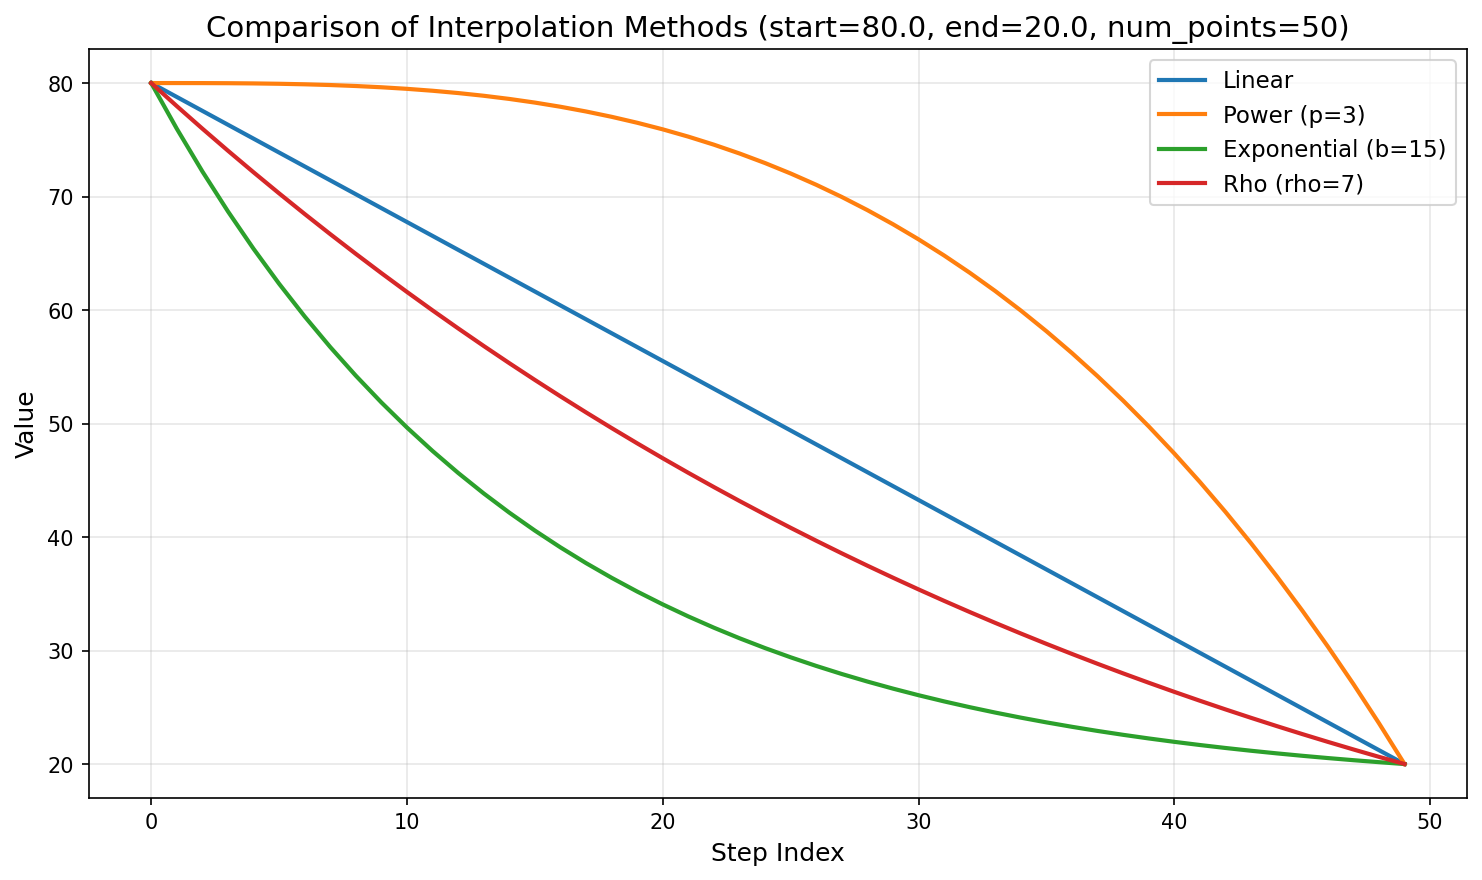
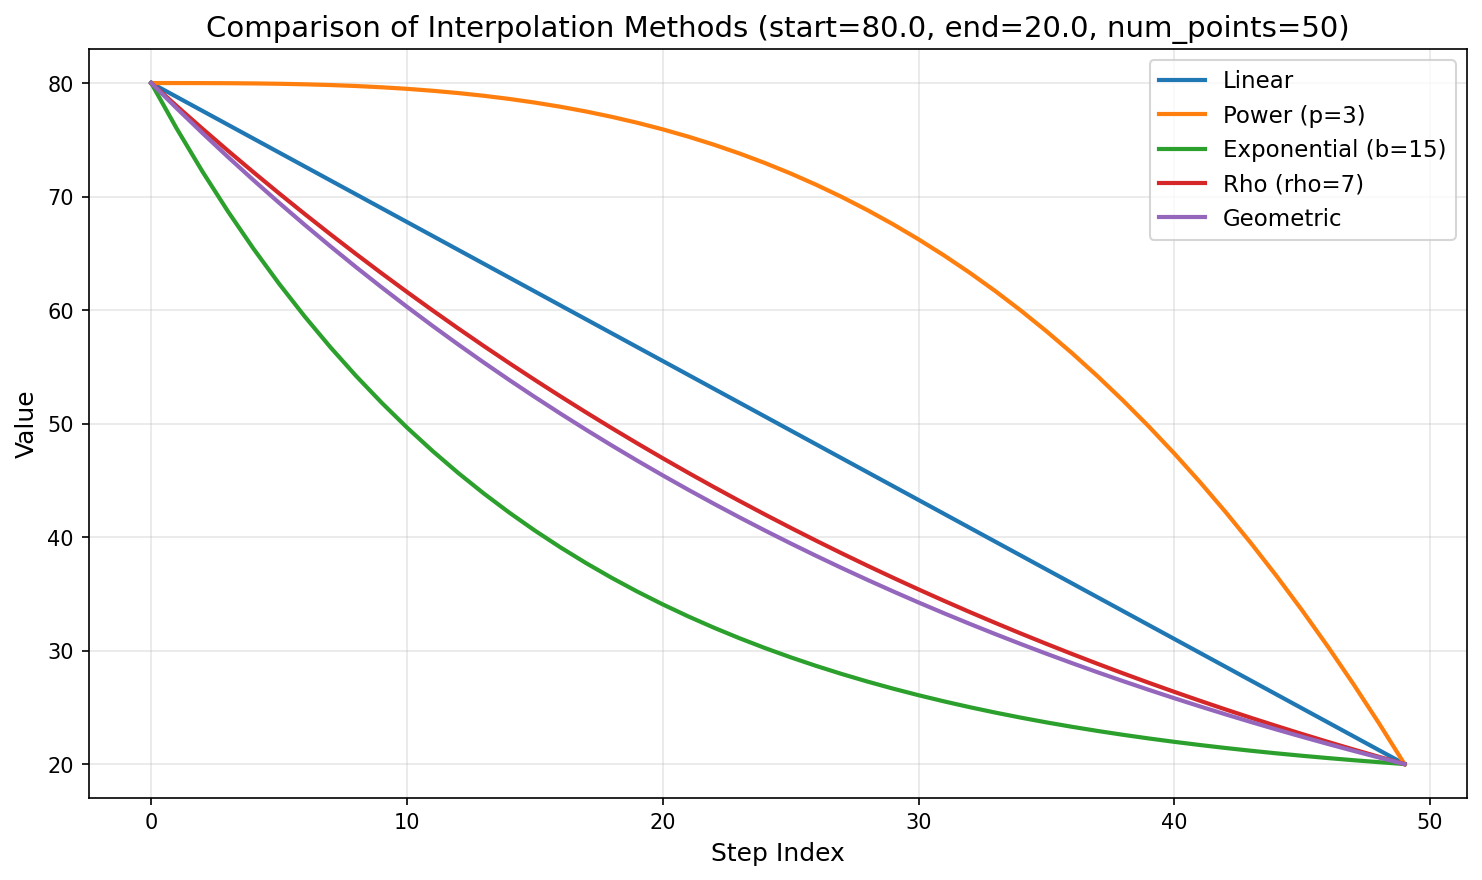
docs(README): add geometric interpolation image and resize all images
- Add geometric_interpolation.png to Geometric Interpolation section
- Resize all images to 30% width (70% smaller)
- Update project structure to include geometric_interpolation.png

diff --git a/README.md b/README.md
@@ -161,7 +161,7 @@ where $i \in \{0, 1, 2, \ldots, n-1\}$ and $n > 1$. When $n = 1$, $t_0 = \text{s
 - Equal step sizes
 - Straight line from start to end
 
-![Linear Interpolation](docs/linear_interpolation.png)
+<img src="docs/linear_interpolation.png" alt="Linear Interpolation" width="30%">
 
 ### 2. Power-based Interpolation
 
@@ -192,7 +192,7 @@ This formula creates a non-linear curve where the distribution depends on the po
 - When you need more samples near start/end
 - Non-uniform sampling strategies
 
-![Power Interpolation](docs/power_interpolation_multiple_params.png)
+<img src="docs/power_interpolation_multiple_params.png" alt="Power Interpolation" width="30%">
 
 ### 3. Exponential Interpolation
 
@@ -225,7 +225,7 @@ This formula creates an exponential decay that concentrates more points near the
 - Learning rate scheduling
 - Annealing schedules
 
-![Exponential Interpolation](docs/exponential_interpolation_multiple_params.png)
+<img src="docs/exponential_interpolation_multiple_params.png" alt="Exponential Interpolation" width="30%">
 
 ### 4. Rho-based Interpolation
 
@@ -256,7 +256,7 @@ If `include_zero=True`, then $t_{n-1} = 0$ (the last point is replaced with zero
 - Score-based generative models
 - Advanced scheduling strategies
 
-![Rho Interpolation](docs/rho_interpolation_multiple_params.png)
+<img src="docs/rho_interpolation_multiple_params.png" alt="Rho Interpolation" width="30%">
 
 ### 5. Geometric Interpolation
 
@@ -294,6 +294,8 @@ This formula creates a geometric progression where:
 - Multiplicative scaling scenarios
 - When you need constant ratio between steps
 
+<img src="docs/geometric_interpolation.png" alt="Geometric Interpolation" width="30%">
+
 ## Comparison
 
 ### All Methods Comparison (Ascending)
@@ -306,7 +308,7 @@ When start < end, all methods interpolate from the lower value to the higher val
 - Number of points: 50
 - Methods: Linear, Power (p=3), Exponential (b=15), Rho (rho=7), Geometric
 
-![All Methods Comparison - Ascending](docs/all_methods_comparison_ascending.png)
+<img src="docs/all_methods_comparison_ascending.png" alt="All Methods Comparison - Ascending" width="30%">
 
 ### All Methods Comparison (Descending)
 
@@ -318,7 +320,7 @@ When start > end, all methods interpolate from the higher value to the lower val
 - Number of points: 50
 - Methods: Linear, Power (p=3), Exponential (b=15), Rho (rho=7), Geometric
 
-![All Methods Comparison - Descending](docs/all_methods_comparison_descending.png)
+<img src="docs/all_methods_comparison_descending.png" alt="All Methods Comparison - Descending" width="30%">
 
 ## Requirements
 
@@ -351,6 +353,7 @@ flexible-interpolator/
 │   ├── power_interpolation_multiple_params.png
 │   ├── exponential_interpolation_multiple_params.png
 │   ├── rho_interpolation_multiple_params.png
+│   ├── geometric_interpolation.png
 │   ├── all_methods_comparison_ascending.png
 │   └── all_methods_comparison_descending.png
 └── outputs/            # Generated output files (gitignored)
